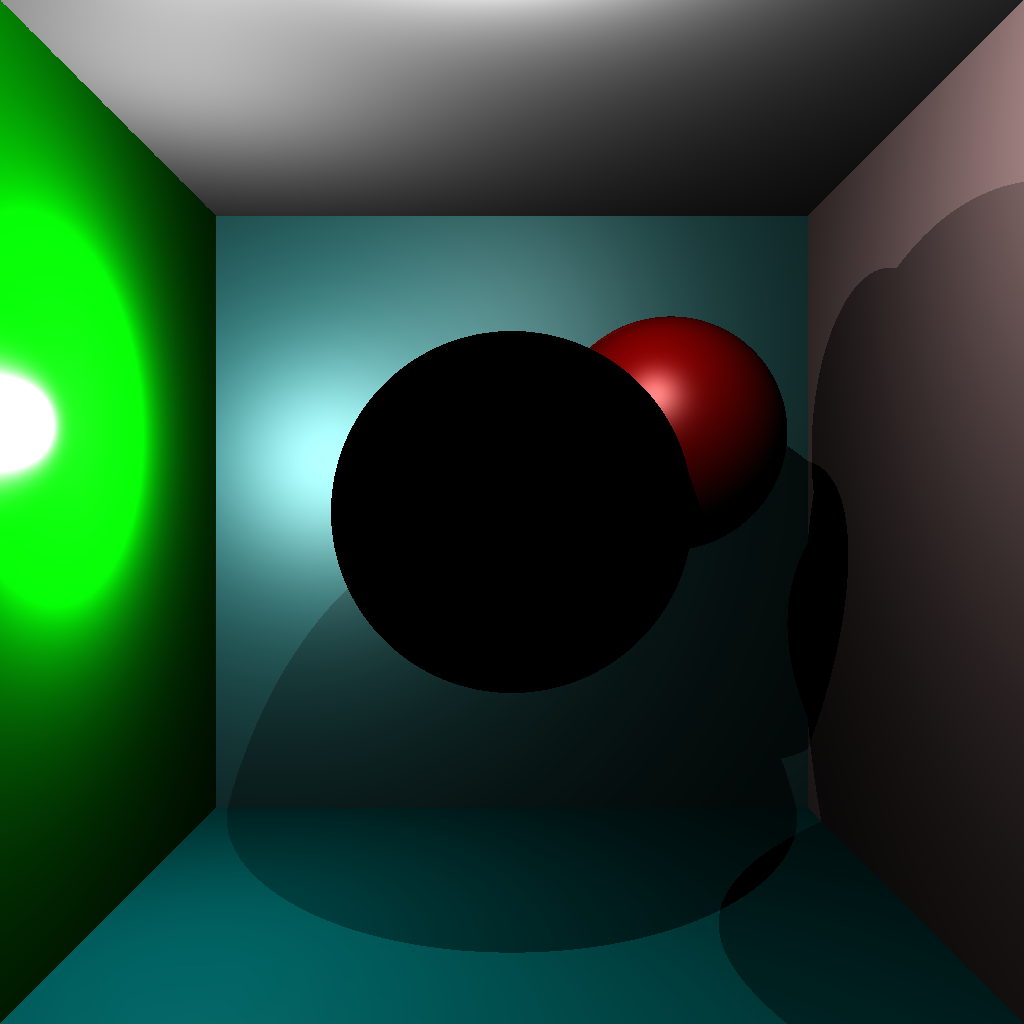
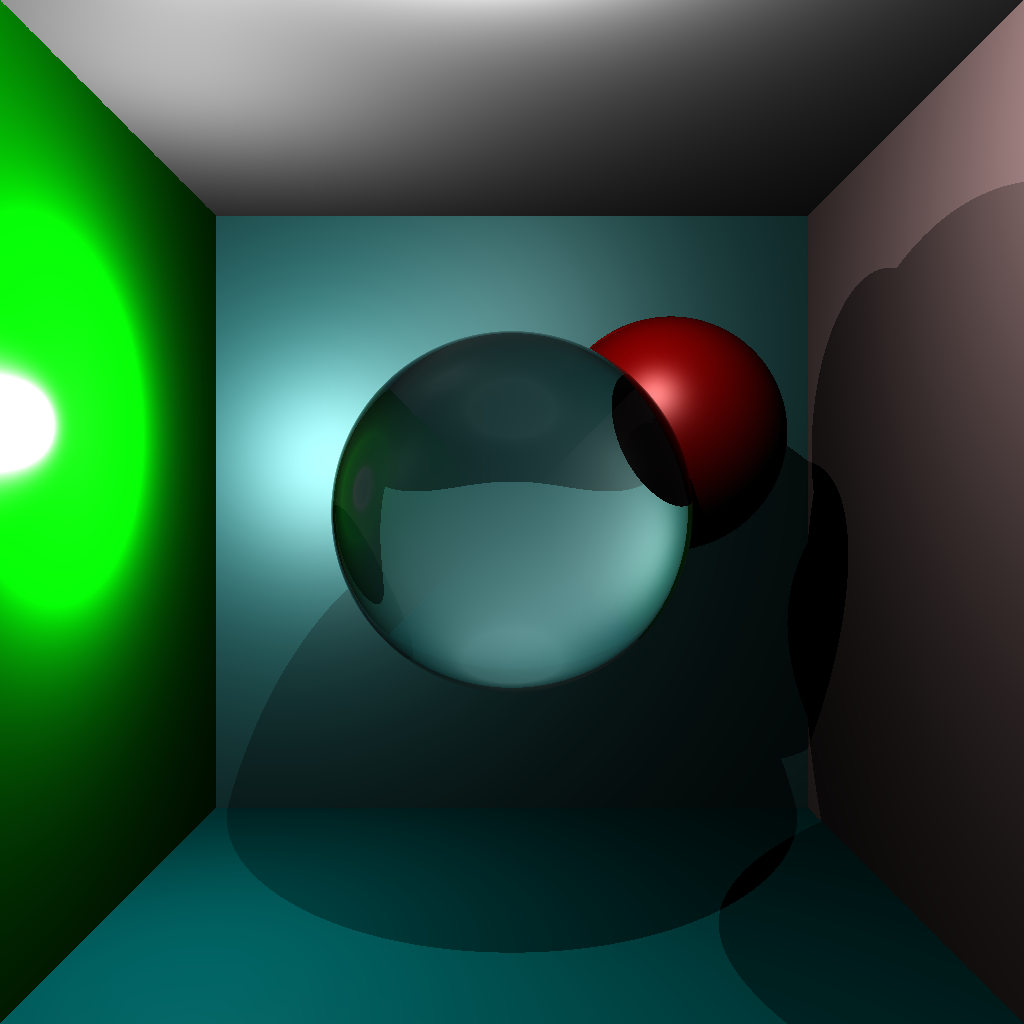
-*-ray-*- refraction

Changed region(s): [[0.3125, 0.3125, 0.6875, 0.6875]]

diff --git a/ray tracer/src/rt/RefractiveIntegrator.java b/ray tracer/src/rt/RefractiveIntegrator.java
@@ -9,43 +9,51 @@ public class RefractiveIntegrator implements IntegratorFactory {
 	@Override
 	public Spectrum integrate(Intersectable scene, LightList lights, Ray ray, int bounces) {
 		HitRecord hit = scene.intersect(ray);
+		Spectrum spectrum = new Spectrum(0.f, 0.f, 0.f);
+		spectrum.append(doShading(scene, lights, hit, ray, bounces));
+		return spectrum;
+	}
+
+	private Spectrum doShading(Intersectable scene, LightList lights, HitRecord hit, Ray ray, int bounces) {
+		if (bounces <= 0 )
+			return makeShadow(scene, lights, hit);
+		if (hit != null && hit.getT() > 0 && hit.getT() <= Float.POSITIVE_INFINITY)
+			if (hit.getMaterial().type == "refractive")
+				return refractionSpec(scene, lights, hit, ray, --bounces);
+			else if(hit.getMaterial().type == "mirror"){
+				Ray reflectedRay = reflectionRay(hit, ray);
+				HitRecord mirrorHit = scene.intersect(reflectedRay);
+				return doShading(scene, lights, mirrorHit, reflectedRay, --bounces);
+			} else
+				return makeShadow(scene, lights, hit);
+		return new Spectrum(0.f, 0.f, 0.f);
+	}
+
+	private Spectrum makeShadow(Intersectable scene, LightList lights, HitRecord hit) {
 		Iterator<Light> it = lights.getLightList().iterator();
 		Spectrum spectrum = new Spectrum(0.f, 0.f, 0.f);
-
-		if (hit != null && hit.getT() > 0 && hit.getT() <= Float.POSITIVE_INFINITY) {
-			int rec = 0;
-			while ((hit.getMaterial().type == "refractive" || hit.getMaterial().type == "mirror")
-					&& rec <= bounces) {
-				Ray newRay;
-				if (hit.getMaterial().type == "refractive")
-					newRay = refractionRay(scene, hit, ray);
-				else
-					newRay = reflectionRay(scene, hit, ray);
-				hit = scene.intersect(newRay);
-				rec++;
-			}
-			while (it.hasNext()) {
-				Light light = it.next();
-				Vector3f hitToLight = new Vector3f(light.getPosition());
-				hitToLight.sub(hit.getIntersectionPoint());
-				hitToLight.normalize();
-				Vector3f pos = new Vector3f(hit.getIntersectionPoint());
-				Vector3f bias = new Vector3f(hit.getRayDir());
-				bias.negate();
-				bias.scale(0.00001f);
-				pos.add(bias);
-				HitRecord lightHit = scene.intersect(new Ray(hitToLight, pos));
-				Vector3f dist = new Vector3f();
-				dist.sub(light.getPosition(), pos);
-				if (lightHit == null || lightHit.getT() > dist.length())
-					spectrum.append(hit.getMaterial().shade(hit, light));
-			}
+		while (it.hasNext()) {
+			Light light = it.next();
+			Vector3f hitToLight = new Vector3f(light.getPosition());
+			hitToLight.sub(hit.getIntersectionPoint());
+			hitToLight.normalize();
+			Vector3f pos = new Vector3f(hit.getIntersectionPoint());
+			Vector3f bias = new Vector3f(hit.getRayDir());
+			bias.negate();
+			bias.scale(0.00001f);
+			pos.add(bias);
+			HitRecord lightHit = scene.intersect(new Ray(hitToLight, pos));
+			Vector3f dist = new Vector3f();
+			dist.sub(light.getPosition(), pos);
+			if (lightHit == null || lightHit.getT() > dist.length())
+				spectrum.append(hit.getMaterial().shade(hit, light));
 		}
 		return spectrum;
 	}
 
-	private Ray refractionRay(Intersectable scene, HitRecord oldHit, Ray oldRay) {
-		Vector3f v = new Vector3f(reflectionRay(scene, oldHit, oldRay).getDirection());
+	private Spectrum refractionSpec(Intersectable scene, LightList lights, HitRecord oldHit,
+			Ray oldRay, int bounces) {
+		Vector3f v = new Vector3f(reflectionRay(oldHit, oldRay).getDirection());
 		Vector3f n = new Vector3f(oldHit.getNormal());
 		float n1, n2;
 		float cosTheta1 = n.dot(v);
@@ -63,8 +71,11 @@ public class RefractiveIntegrator implements IntegratorFactory {
 		float theta1 = (float) Math.acos(n.dot(v));
 		float theta2 = (float) Math.asin(Math.sin(theta1) * n1 / n2);
 
+		Ray reflectedRay = reflectionRay(oldHit, oldRay);
+		HitRecord reflectionHit = scene.intersect(reflectedRay);
+
 		if (theta1 > thetaC)
-			return reflectionRay(scene, oldHit, oldRay);
+			return doShading(scene, lights, reflectionHit, reflectedRay, --bounces);
 
 		Vector3f v2 = new Vector3f(oldHit.getRayDir());
 		v2.normalize();
@@ -79,16 +90,37 @@ public class RefractiveIntegrator implements IntegratorFactory {
 		bias.scale(0.00001f);
 		pos.add(bias);
 
-		return new Ray(r, pos);
+		Ray refractedRay = new Ray(r, pos);
+		HitRecord refractionHit = scene.intersect(refractedRay);
+
+		// Fresnel equations
+		float R1 = (float) Math.pow(
+				(n1 * Math.cos(theta1) - n2 * Math.cos(theta2))
+				/ (n1 * Math.cos(theta1) + n2 * Math.cos(theta2)), 2);
+		float R2 = (float) Math.pow(
+				(n2 * Math.cos(theta1) - n1 * Math.cos(theta2))
+				/ (n2 * Math.cos(theta1) + n1 * Math.cos(theta2)), 2);
+		float R = (R1 + R2) / 2f;
+		float T = 1.f - R;
+
+		int newDepth = --bounces;
+		Spectrum reflectionSpectrum = doShading(scene, lights, reflectionHit, reflectedRay,
+				newDepth).multipliedBy(R);
+		Spectrum refractionSpectrum = doShading(scene, lights, refractionHit, refractedRay,
+				newDepth).multipliedBy(T);
+		Spectrum finalSpectrum = new Spectrum(reflectionSpectrum);
+		finalSpectrum.append(refractionSpectrum);
+		return finalSpectrum;
 	}
 
-	private Ray reflectionRay(Intersectable scene, HitRecord oldHit, Ray oldRay) {
+	private Ray reflectionRay(HitRecord oldHit, Ray oldRay) {
 		Vector3f normal = new Vector3f(oldHit.getNormal());
 		float dDotN = oldRay.getDirection().dot(normal);
 		Vector3f twodnn = new Vector3f(oldHit.getNormal());
 		twodnn.scale(dDotN * 2);
 		Vector3f refl = new Vector3f(oldRay.getDirection());
 		refl.sub(twodnn);
+		refl.normalize();
 		Vector3f bias = new Vector3f(oldHit.getRayDir());
 		bias.negate();
 		bias.scale(0.00001f);

diff --git a/ray tracer/src/scenes/Assignment1_Instancing.java b/ray tracer/src/scenes/Assignment1_Instancing.java
@@ -48,8 +48,8 @@ public class Assignment1_Instancing implements Scene {
 		Vector3f lookAt = new Vector3f(0.f, 0.f, 0.f);
 		Vector3f up = new Vector3f(0.f, 1.f, 0.f);
 		float fov = 60.f;
-		int width = 1024;
-		int height = 1024;
+		int width = 512;
+		int height = 512;
 		float aspect = (float) width / (float) height;
 		camera = new Camera(eye, lookAt, up, fov, aspect, width, height);
 		film = new Film(width, height);

diff --git a/ray tracer/src/rt/Main.java b/ray tracer/src/rt/Main.java
@@ -9,7 +9,7 @@ import scenes.Scene;
 
 public class Main {
 
-	private static int sceneNo = 5;
+	private static int sceneNo = 3;
 	private static int maxThreads = Runtime.getRuntime().availableProcessors();
 	private static Scene image;
 
